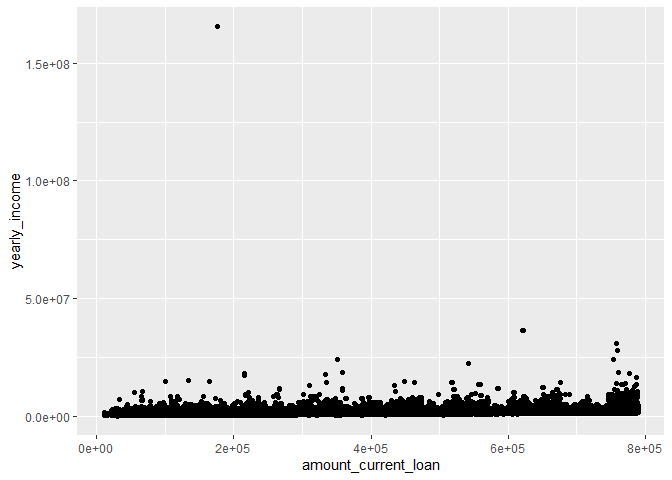
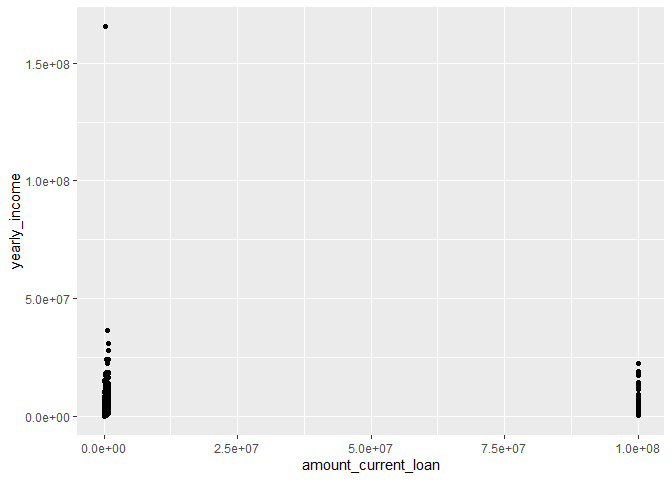
report has been updated

diff --git a/project/2-report/report.html b/project/2-report/report.html
@@ -365,61 +365,61 @@ are.</p>
 <pre class="r"><code>df &lt;- read.csv(file = &quot;../1-data/train_data.csv&quot;)
 df &lt;- as.data.frame(df)
 dim(df)</code></pre>
-<pre><code>## [1] 1000000      17</code></pre>
+<pre><code>## [1] 10000000       17</code></pre>
 <pre class="r"><code>summary(df)</code></pre>
-<pre><code>##        id                y       amount_current_loan     term          
-##  Min.   :      1   Min.   :0.0   Min.   : 10802      Length:1000000    
-##  1st Qu.: 250001   1st Qu.:0.0   1st Qu.:174394      Class :character  
-##  Median : 500001   Median :0.5   Median :269676      Mode  :character  
-##  Mean   : 500001   Mean   :0.5   Mean   :316659                        
-##  3rd Qu.: 750000   3rd Qu.:1.0   3rd Qu.:435160                        
-##  Max.   :1000000   Max.   :1.0   Max.   :789250                        
-##                                                                        
+<pre><code>##        id                y          amount_current_loan     term          
+##  Min.   :1.0e+00   Min.   :0.0000   Min.   :   10802    Length:10000000   
+##  1st Qu.:2.5e+06   1st Qu.:0.0000   1st Qu.:  179652    Class :character  
+##  Median :5.0e+06   Median :0.0000   Median :  312312    Mode  :character  
+##  Mean   :5.0e+06   Mean   :0.2421   Mean   :11765909                      
+##  3rd Qu.:7.5e+06   3rd Qu.:0.0000   3rd Qu.:  525096                      
+##  Max.   :1.0e+07   Max.   :1.0000   Max.   :99999999                      
+##                                                                           
 ##  credit_score       loan_purpose       yearly_income       home_ownership    
-##  Length:1000000     Length:1000000     Min.   :    76627   Length:1000000    
-##  Class :character   Class :character   1st Qu.:   825797   Class :character  
-##  Mode  :character   Mode  :character   Median :  1148550   Mode  :character  
-##                                        Mean   :  1344805                     
-##                                        3rd Qu.:  1605899                     
+##  Length:10000000    Length:10000000    Min.   :    76627   Length:10000000   
+##  Class :character   Class :character   1st Qu.:   848844   Class :character  
+##  Mode  :character   Mode  :character   Median :  1174371   Mode  :character  
+##                                        Mean   :  1378367                     
+##                                        3rd Qu.:  1651499                     
 ##                                        Max.   :165557393                     
-##                                        NA&#39;s   :219439                        
-##   bankruptcies    years_current_job  monthly_debt    years_credit_history
-##  Min.   :0.0000   Min.   : 0.00     Min.   :     0   Min.   : 4.0        
-##  1st Qu.:0.0000   1st Qu.: 3.00     1st Qu.: 10324   1st Qu.:13.0        
-##  Median :0.0000   Median : 6.00     Median : 16319   Median :17.0        
-##  Mean   :0.1192   Mean   : 5.88     Mean   : 18550   Mean   :18.1        
-##  3rd Qu.:0.0000   3rd Qu.:10.00     3rd Qu.: 24059   3rd Qu.:22.0        
-##  Max.   :7.0000   Max.   :10.00     Max.   :435843   Max.   :70.0        
-##  NA&#39;s   :1805     NA&#39;s   :45949                                          
+##                                        NA&#39;s   :1919747                       
+##   bankruptcies   years_current_job  monthly_debt    years_credit_history
+##  Min.   :0.000   Min.   : 0.0      Min.   :     0   Min.   : 4.00       
+##  1st Qu.:0.000   1st Qu.: 3.0      1st Qu.: 10200   1st Qu.:14.00       
+##  Median :0.000   Median : 6.0      Median : 16221   Median :17.00       
+##  Mean   :0.117   Mean   : 5.9      Mean   : 18471   Mean   :18.22       
+##  3rd Qu.:0.000   3rd Qu.:10.0      3rd Qu.: 24012   3rd Qu.:22.00       
+##  Max.   :7.000   Max.   :10.0      Max.   :435843   Max.   :70.00       
+##  NA&#39;s   :18354   NA&#39;s   :422327                                         
 ##  months_since_last_delinquent open_accounts   credit_problems  
-##  Min.   :  0.0                Min.   : 0.00   Min.   : 0.0000  
-##  1st Qu.: 16.0                1st Qu.: 8.00   1st Qu.: 0.0000  
-##  Median : 32.0                Median :10.00   Median : 0.0000  
-##  Mean   : 34.9                Mean   :11.18   Mean   : 0.1762  
-##  3rd Qu.: 51.0                3rd Qu.:14.00   3rd Qu.: 0.0000  
-##  Max.   :176.0                Max.   :76.00   Max.   :15.0000  
-##  NA&#39;s   :529539                                                
+##  Min.   :  0                  Min.   : 0.00   Min.   : 0.0000  
+##  1st Qu.: 16                  1st Qu.: 8.00   1st Qu.: 0.0000  
+##  Median : 32                  Median :10.00   Median : 0.0000  
+##  Mean   : 35                  Mean   :11.15   Mean   : 0.1736  
+##  3rd Qu.: 51                  3rd Qu.:14.00   3rd Qu.: 0.0000  
+##  Max.   :176                  Max.   :76.00   Max.   :15.0000  
+##  NA&#39;s   :5317819                                               
 ##  credit_balance     max_open_credit    
 ##  Min.   :       0   Min.   :0.000e+00  
-##  1st Qu.:  113392   1st Qu.:2.700e+05  
-##  Median :  210539   Median :4.600e+05  
-##  Mean   :  293847   Mean   :7.367e+05  
-##  3rd Qu.:  367422   3rd Qu.:7.674e+05  
+##  1st Qu.:  113297   1st Qu.:2.771e+05  
+##  Median :  210767   Median :4.726e+05  
+##  Mean   :  297283   Mean   :7.687e+05  
+##  3rd Qu.:  370253   3rd Qu.:7.914e+05  
 ##  Max.   :32878968   Max.   :1.540e+09  
-##                     NA&#39;s   :27</code></pre>
+##                     NA&#39;s   :192</code></pre>
 </div>
 <div id="first-plot" class="section level2">
 <h2>First plot</h2>
 <p>As we can see in the plot below, loan amount does not depends on
 yearly income.</p>
-<pre><code>## Warning: Removed 219439 rows containing missing values (`geom_point()`).</code></pre>
[1 lines of base64/hex data omitted]
+<pre><code>## Warning: Removed 1919747 rows containing missing values (`geom_point()`).</code></pre>
[1 lines of base64/hex data omitted]
 </div>
 <div id="second-plot" class="section level2">
 <h2>Second plot</h2>
 <p>In the plot below we can inspect the relationship between Monthly
 Debt Amount and Years of Credit History.</p>
[2 lines of base64/hex data omitted]
 </div>
 
 

diff --git a/project/2-report/report.md b/project/2-report/report.md
@@ -24,7 +24,7 @@ dim(df)
 ```
 
 ```
-## [1] 1000000      17
+## [1] 10000000       17
 ```
 
 ```r
@@ -32,46 +32,46 @@ summary(df)
 ```
 
 ```
-##        id                y       amount_current_loan     term          
-##  Min.   :      1   Min.   :0.0   Min.   : 10802      Length:1000000    
-##  1st Qu.: 250001   1st Qu.:0.0   1st Qu.:174394      Class :character  
-##  Median : 500001   Median :0.5   Median :269676      Mode  :character  
-##  Mean   : 500001   Mean   :0.5   Mean   :316659                        
-##  3rd Qu.: 750000   3rd Qu.:1.0   3rd Qu.:435160                        
-##  Max.   :1000000   Max.   :1.0   Max.   :789250                        
-##                                                                        
+##        id                y          amount_current_loan     term          
+##  Min.   :1.0e+00   Min.   :0.0000   Min.   :   10802    Length:10000000   
+##  1st Qu.:2.5e+06   1st Qu.:0.0000   1st Qu.:  179652    Class :character  
+##  Median :5.0e+06   Median :0.0000   Median :  312312    Mode  :character  
+##  Mean   :5.0e+06   Mean   :0.2421   Mean   :11765909                      
+##  3rd Qu.:7.5e+06   3rd Qu.:0.0000   3rd Qu.:  525096                      
+##  Max.   :1.0e+07   Max.   :1.0000   Max.   :99999999                      
+##                                                                           
 ##  credit_score       loan_purpose       yearly_income       home_ownership    
-##  Length:1000000     Length:1000000     Min.   :    76627   Length:1000000    
-##  Class :character   Class :character   1st Qu.:   825797   Class :character  
-##  Mode  :character   Mode  :character   Median :  1148550   Mode  :character  
-##                                        Mean   :  1344805                     
-##                                        3rd Qu.:  1605899                     
+##  Length:10000000    Length:10000000    Min.   :    76627   Length:10000000   
+##  Class :character   Class :character   1st Qu.:   848844   Class :character  
+##  Mode  :character   Mode  :character   Median :  1174371   Mode  :character  
+##                                        Mean   :  1378367                     
+##                                        3rd Qu.:  1651499                     
 ##                                        Max.   :165557393                     
-##                                        NA's   :219439                        
-##   bankruptcies    years_current_job  monthly_debt    years_credit_history
-##  Min.   :0.0000   Min.   : 0.00     Min.   :     0   Min.   : 4.0        
-##  1st Qu.:0.0000   1st Qu.: 3.00     1st Qu.: 10324   1st Qu.:13.0        
-##  Median :0.0000   Median : 6.00     Median : 16319   Median :17.0        
-##  Mean   :0.1192   Mean   : 5.88     Mean   : 18550   Mean   :18.1        
-##  3rd Qu.:0.0000   3rd Qu.:10.00     3rd Qu.: 24059   3rd Qu.:22.0        
-##  Max.   :7.0000   Max.   :10.00     Max.   :435843   Max.   :70.0        
-##  NA's   :1805     NA's   :45949                                          
+##                                        NA's   :1919747                       
+##   bankruptcies   years_current_job  monthly_debt    years_credit_history
+##  Min.   :0.000   Min.   : 0.0      Min.   :     0   Min.   : 4.00       
+##  1st Qu.:0.000   1st Qu.: 3.0      1st Qu.: 10200   1st Qu.:14.00       
+##  Median :0.000   Median : 6.0      Median : 16221   Median :17.00       
+##  Mean   :0.117   Mean   : 5.9      Mean   : 18471   Mean   :18.22       
+##  3rd Qu.:0.000   3rd Qu.:10.0      3rd Qu.: 24012   3rd Qu.:22.00       
+##  Max.   :7.000   Max.   :10.0      Max.   :435843   Max.   :70.00       
+##  NA's   :18354   NA's   :422327                                         
 ##  months_since_last_delinquent open_accounts   credit_problems  
-##  Min.   :  0.0                Min.   : 0.00   Min.   : 0.0000  
-##  1st Qu.: 16.0                1st Qu.: 8.00   1st Qu.: 0.0000  
-##  Median : 32.0                Median :10.00   Median : 0.0000  
-##  Mean   : 34.9                Mean   :11.18   Mean   : 0.1762  
-##  3rd Qu.: 51.0                3rd Qu.:14.00   3rd Qu.: 0.0000  
-##  Max.   :176.0                Max.   :76.00   Max.   :15.0000  
-##  NA's   :529539                                                
+##  Min.   :  0                  Min.   : 0.00   Min.   : 0.0000  
+##  1st Qu.: 16                  1st Qu.: 8.00   1st Qu.: 0.0000  
+##  Median : 32                  Median :10.00   Median : 0.0000  
+##  Mean   : 35                  Mean   :11.15   Mean   : 0.1736  
+##  3rd Qu.: 51                  3rd Qu.:14.00   3rd Qu.: 0.0000  
+##  Max.   :176                  Max.   :76.00   Max.   :15.0000  
+##  NA's   :5317819                                               
 ##  credit_balance     max_open_credit    
 ##  Min.   :       0   Min.   :0.000e+00  
-##  1st Qu.:  113392   1st Qu.:2.700e+05  
-##  Median :  210539   Median :4.600e+05  
-##  Mean   :  293847   Mean   :7.367e+05  
-##  3rd Qu.:  367422   3rd Qu.:7.674e+05  
+##  1st Qu.:  113297   1st Qu.:2.771e+05  
+##  Median :  210767   Median :4.726e+05  
+##  Mean   :  297283   Mean   :7.687e+05  
+##  3rd Qu.:  370253   3rd Qu.:7.914e+05  
 ##  Max.   :32878968   Max.   :1.540e+09  
-##                     NA's   :27
+##                     NA's   :192
 ```
 
 ## First plot
@@ -80,7 +80,7 @@ As we can see in the plot below, loan amount does not depends on yearly income.
 
 
 ```
-## Warning: Removed 219439 rows containing missing values (`geom_point()`).
+## Warning: Removed 1919747 rows containing missing values (`geom_point()`).
 ```
 
 ![](report_files/figure-html/Current Loan Amount and Yearly Income-1.png)<!-- -->
